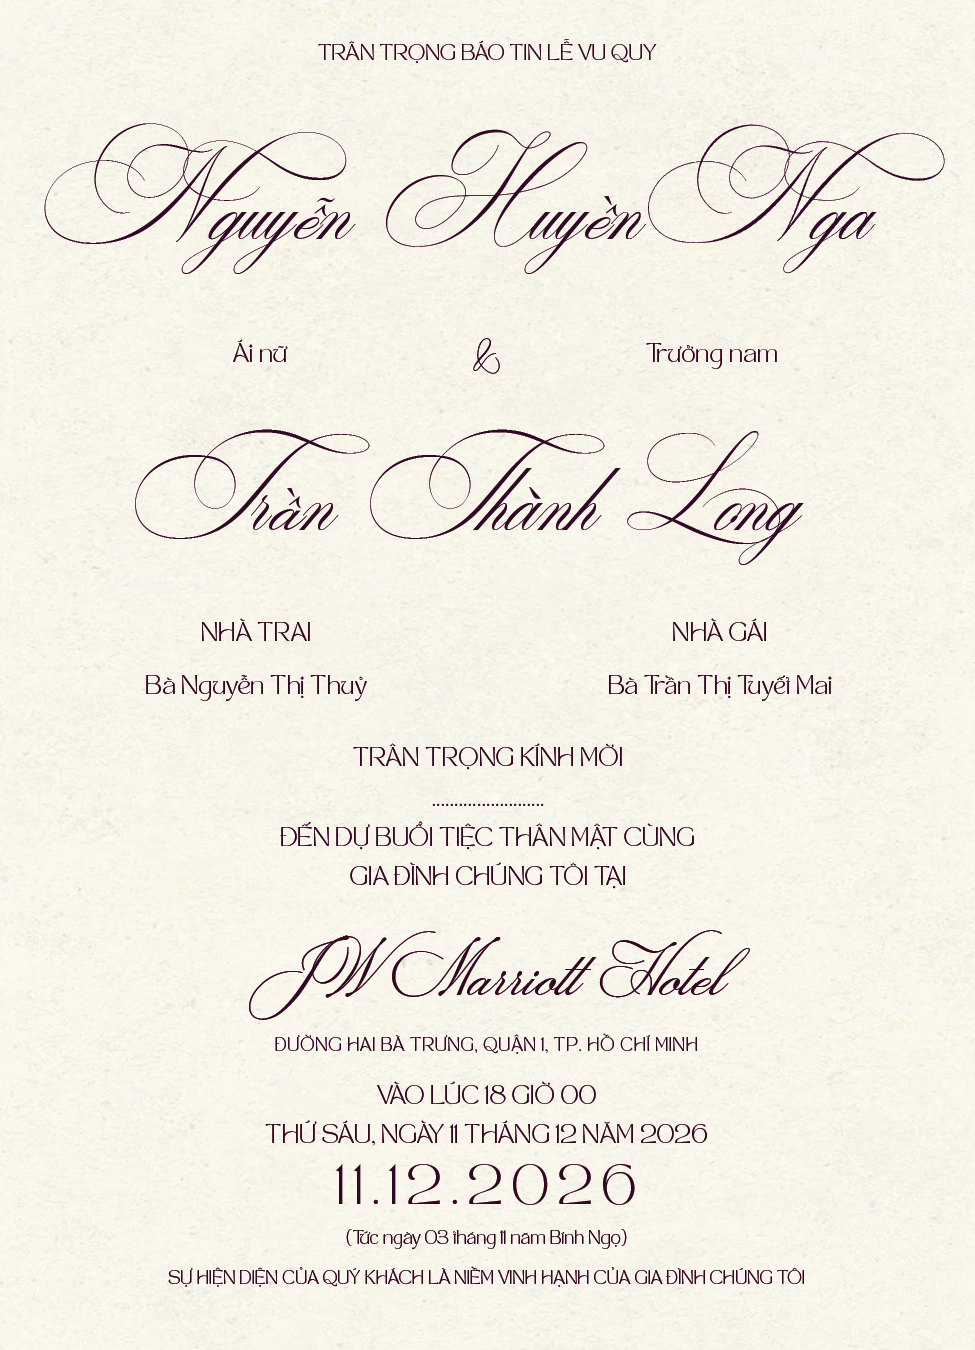
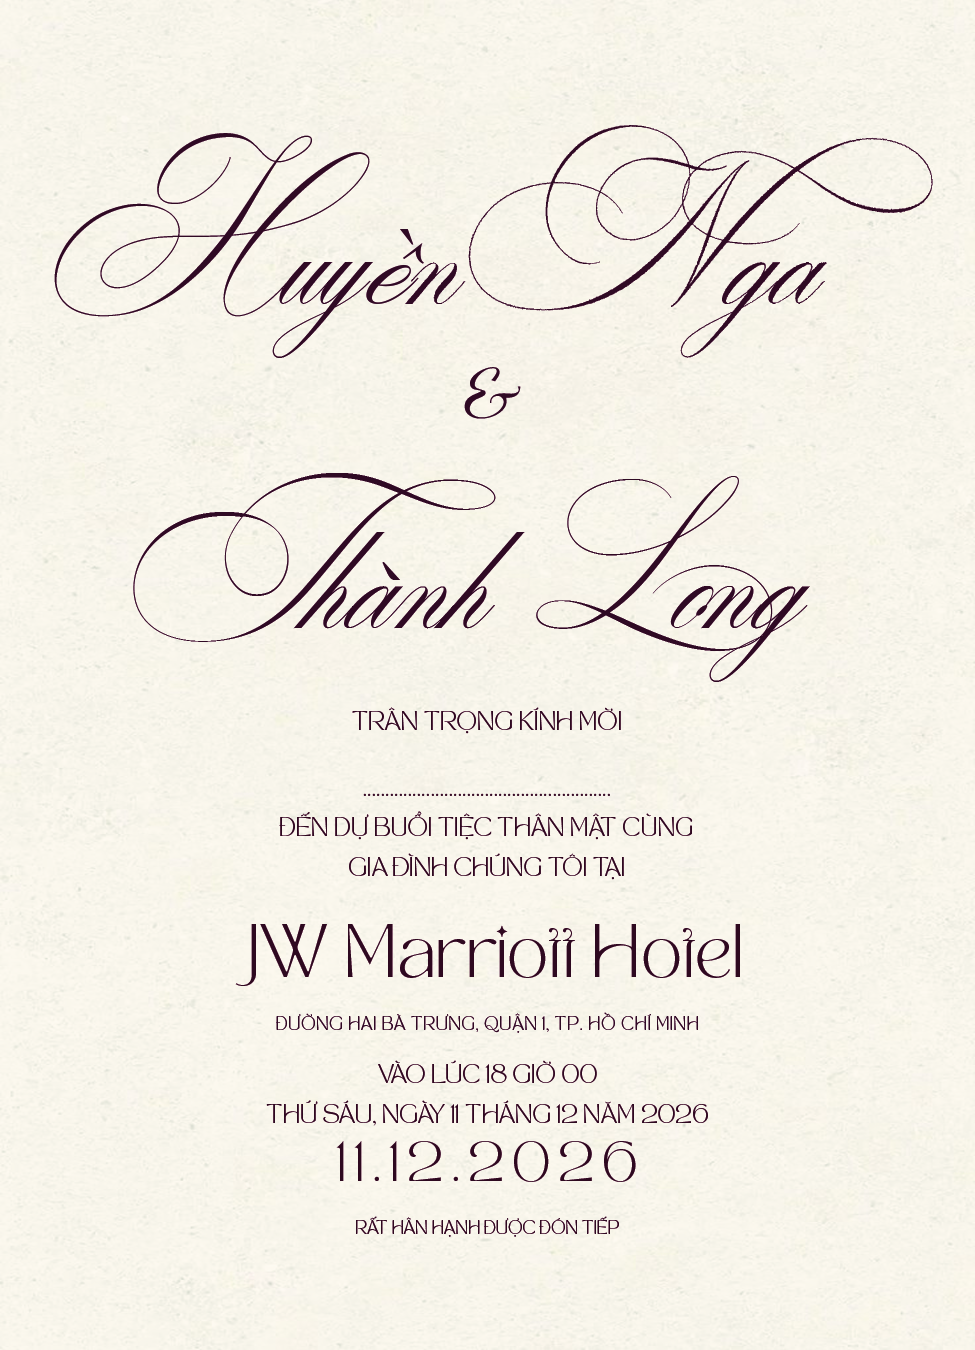
feat: sync official wedding card with thiệp cứng.psb Artboard 2

diff --git a/src/components/Info.tsx b/src/components/Info.tsx
@@ -65,15 +65,12 @@ export function Info() {
 
             {/* Semantic screen-reader content for SEO and Accessibility */}
             <div className="sr-only">
-              <h2>TRÂN TRỌNG BÁO TIN TIỆC CƯỚI</h2>
-              <p>Cô dâu: Nguyễn Huyền Nga (Ái nữ)</p>
-              <p>Chú rể: Trần Thành Long (Trưởng nam)</p>
-              <p>Đại diện Nhà Trai: Bà Trần Thị Tuyết Mai</p>
-              <p>Đại diện Nhà Gái: Bà Nguyễn Thị Thuỷ</p>
-              <p>Trân trọng kính mời đến dự buổi tiệc thân mật cùng gia đình chúng tôi tại JW Marriott Hotel</p>
+              <h2>TRÂN TRỌNG KÍNH MỜI ĐẾN DỰ BUỔI TIỆC THÂN MẬT CÙNG GIA ĐÌNH CHÚNG TÔI</h2>
+              <p>Huyền Nga &amp; Thành Long</p>
+              <p>Địa điểm: JW Marriott Hotel</p>
               <p>Địa chỉ: Đường Hai Bà Trưng, Quận 1, TP. Hồ Chí Minh</p>
-              <p>Thời gian: Vào lúc 18 giờ 00 · Thứ Sáu, ngày 11 tháng 12 năm 2026 (Tức ngày 03 tháng 11 năm Bính Ngọ)</p>
-              <p>Sự hiện diện của quý khách là niềm vinh hạnh của gia đình chúng tôi</p>
+              <p>Thời gian: Vào lúc 18 giờ 00 · Thứ Sáu, ngày 11 tháng 12 năm 2026 (11.12.2026)</p>
+              <p>Rất hân hạnh được đón tiếp</p>
             </div>
           </div>
         </Reveal>
